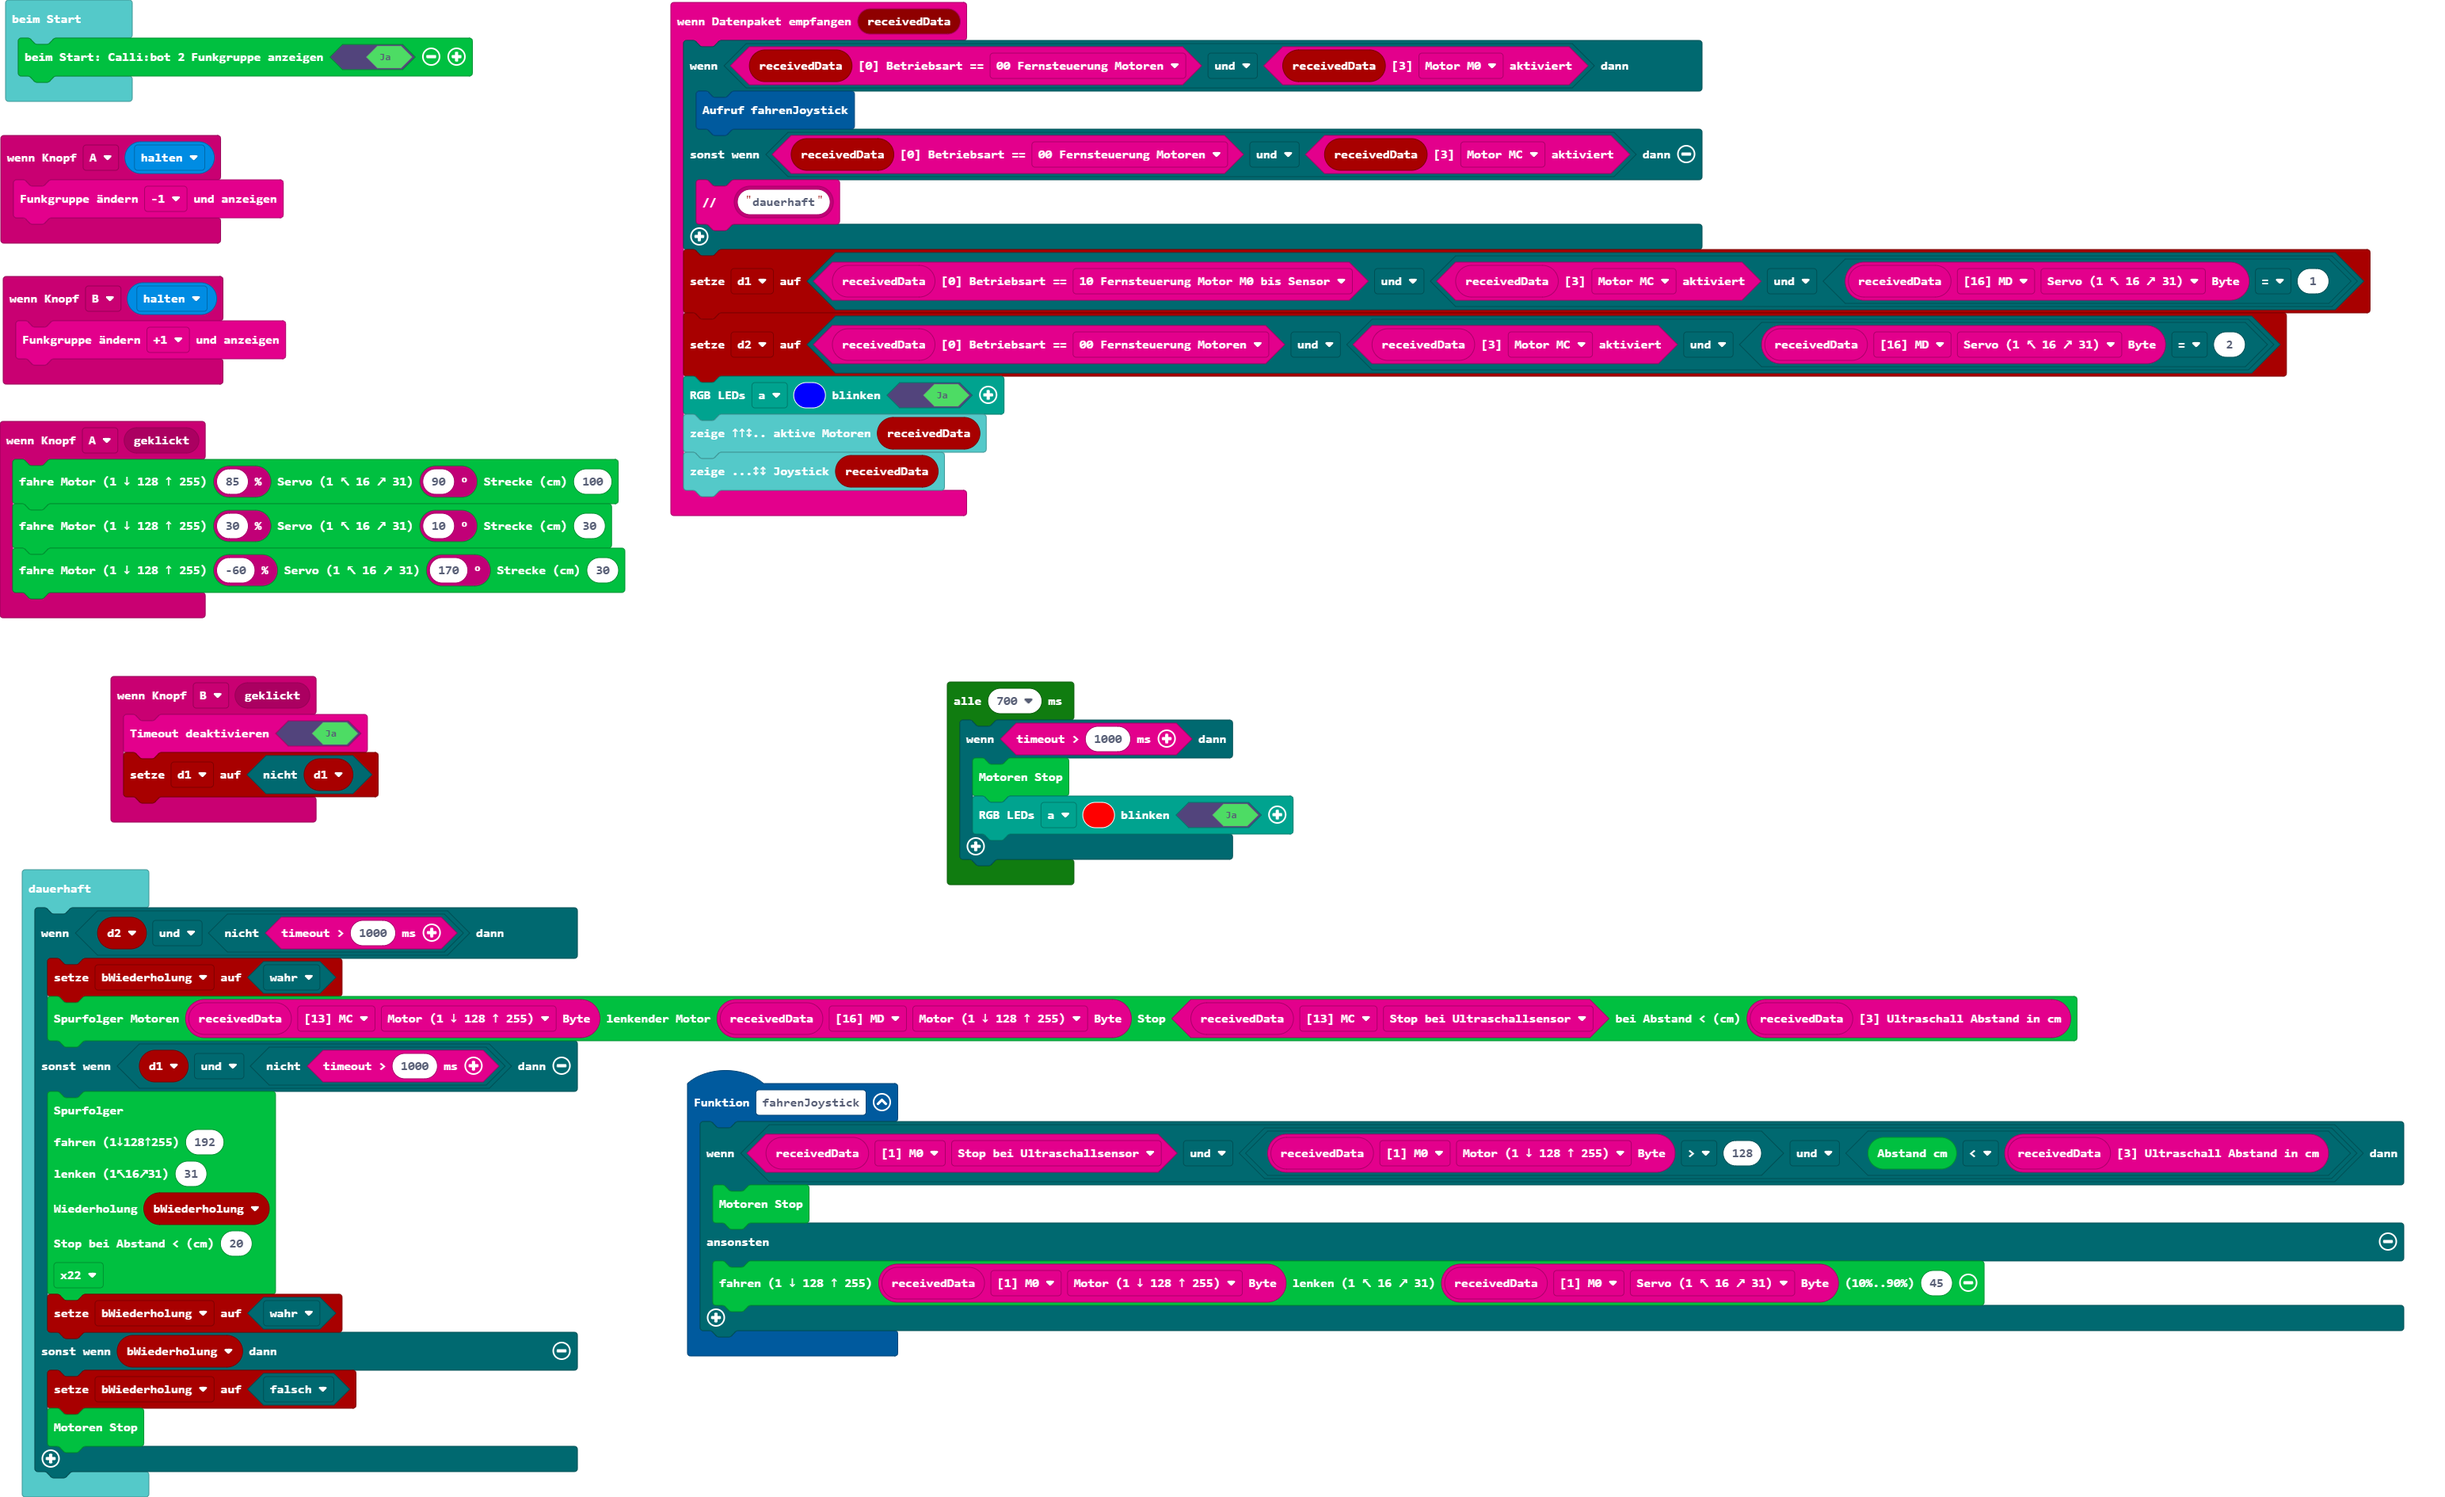
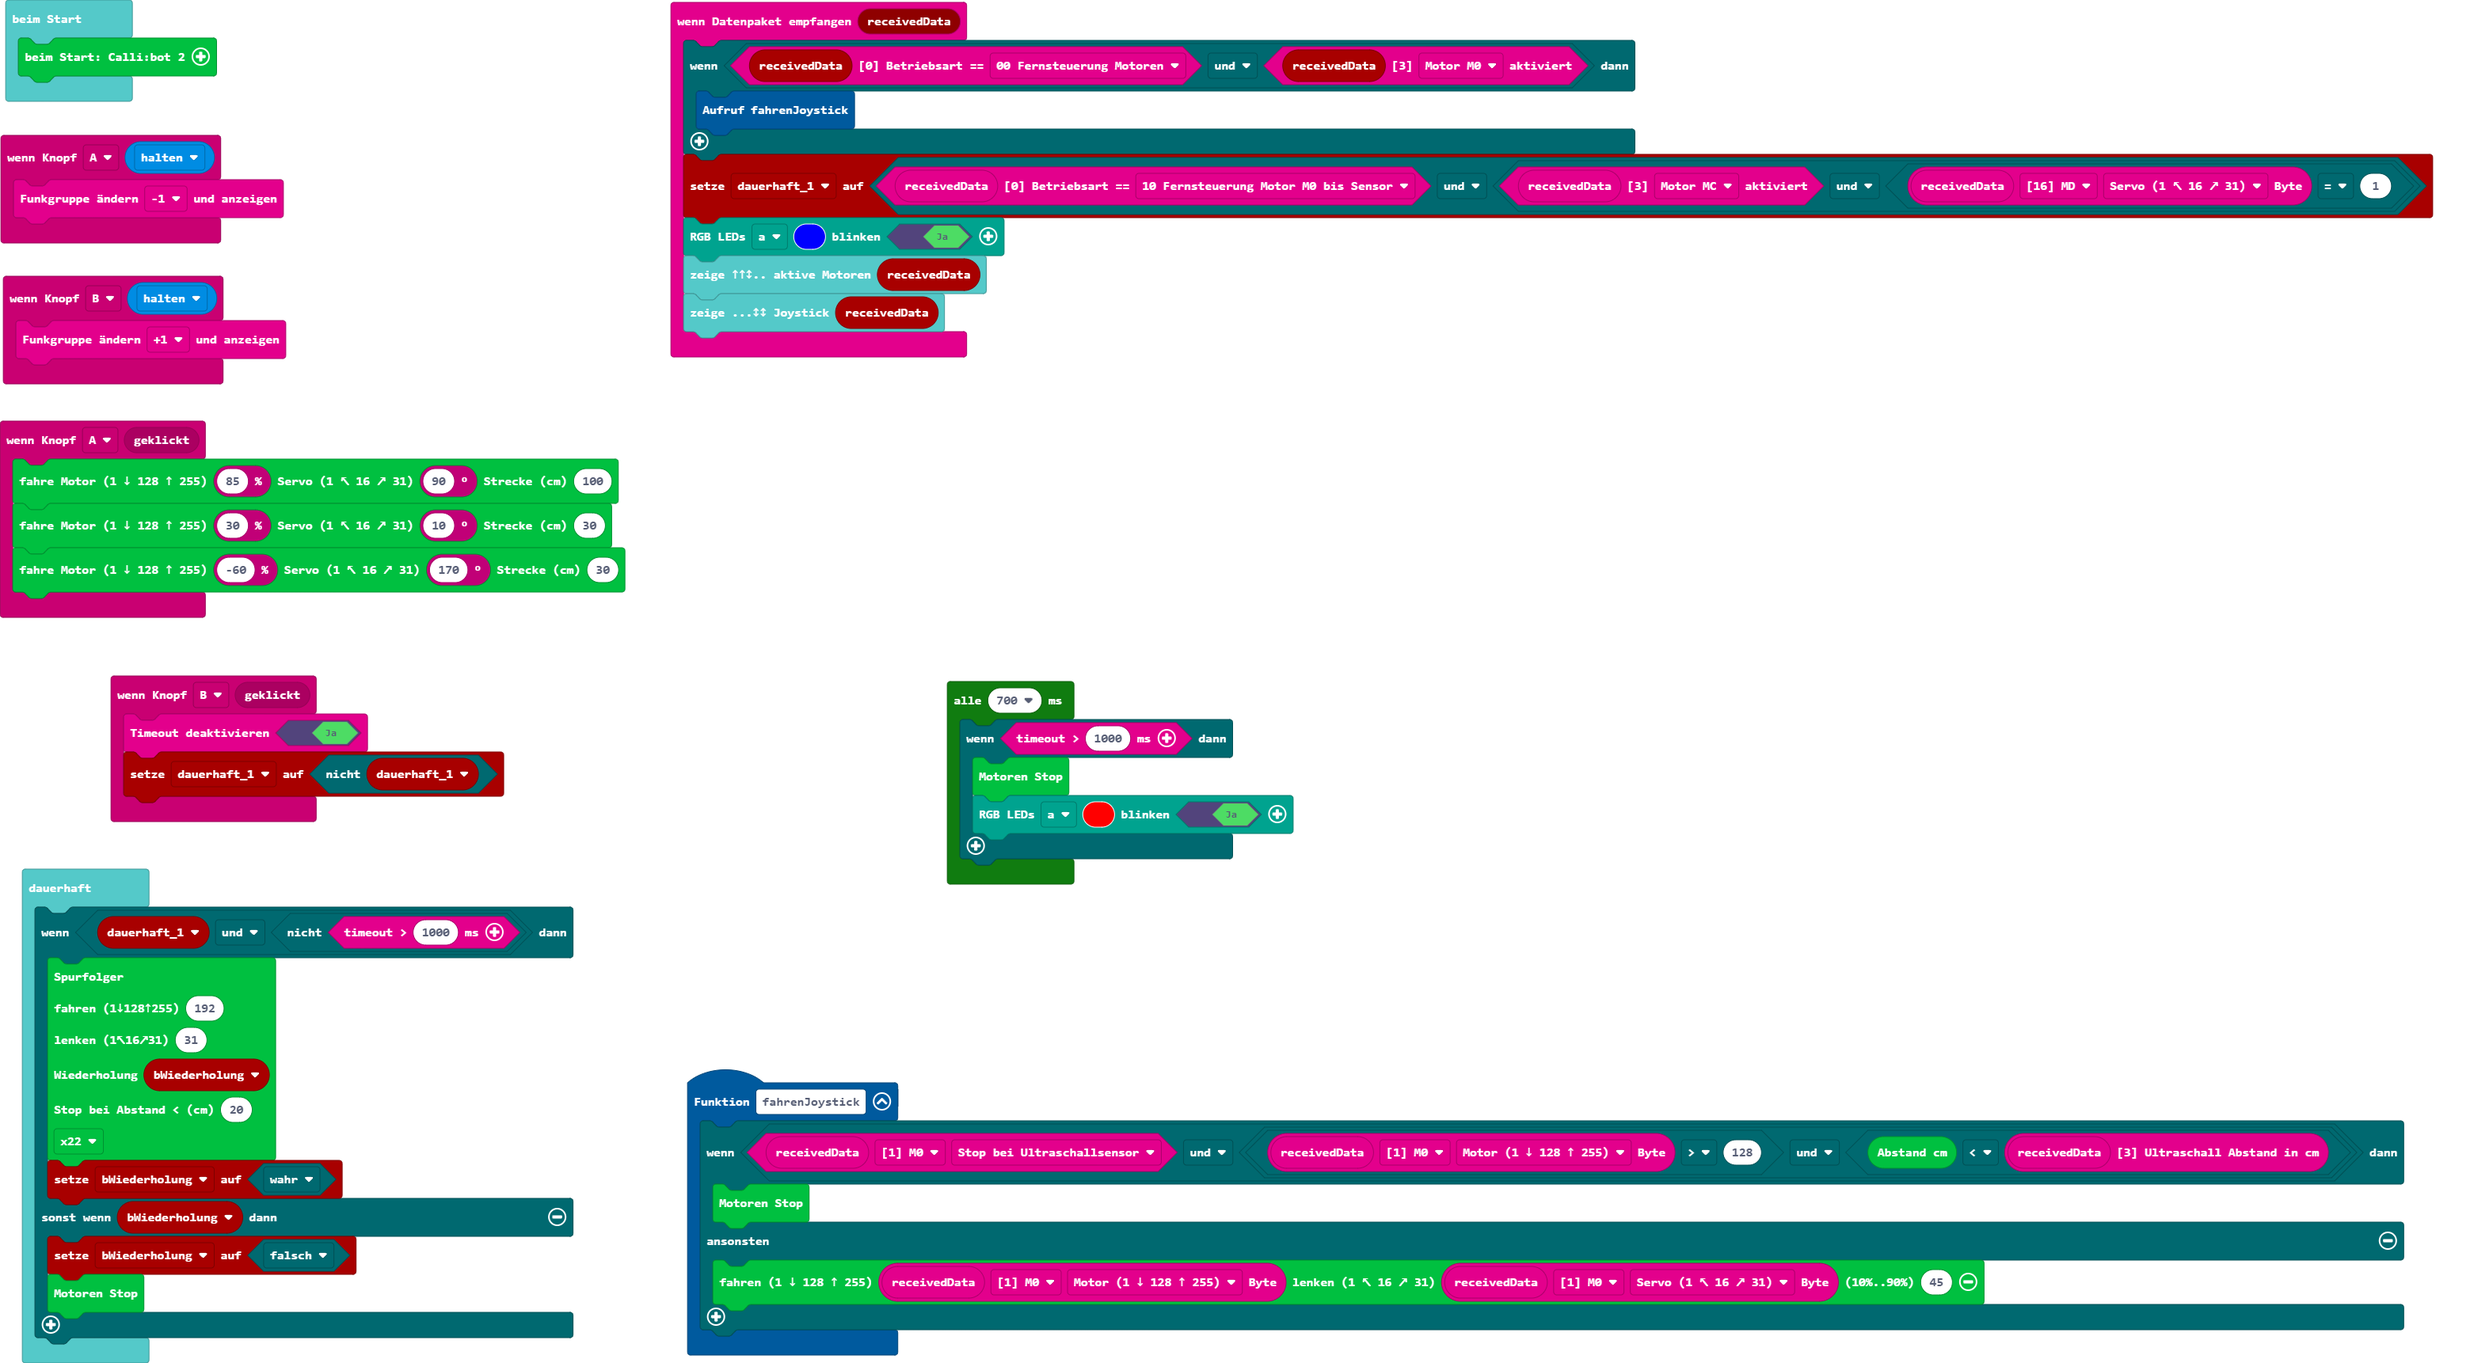
Aktualisiere main.blocks, main.ts

diff --git a/main.ts b/main.ts
@@ -8,7 +8,7 @@ input.onButtonEvent(Button.B, sender.buttonEventValue(ButtonEvent.Hold), functio
 })
 input.onButtonEvent(Button.B, input.buttonEventClick(), function () {
     btf.set_localProgram(true)
-    d1 = !(d1)
+    dauerhaft_1 = !(dauerhaft_1)
 })
 function fahrenJoystick () {
     if (btf.getSensor(btf.btf_receivedBuffer19(), btf.eBufferPointer.m0, btf.eSensor.b6) && (btf.getByte(btf.btf_receivedBuffer19(), btf.eBufferPointer.m0, btf.eBufferOffset.b0_Motor) > 128 && cb2.readUltraschallAbstand() < btf.getAbstand(btf.btf_receivedBuffer19()))) {
@@ -23,24 +23,17 @@ input.onButtonEvent(Button.A, sender.buttonEventValue(ButtonEvent.Hold), functio
 btf.onReceivedData(function (receivedData) {
     if (btf.isBetriebsart(receivedData, btf.e0Betriebsart.p0) && btf.getaktiviert(receivedData, btf.e3aktiviert.m0)) {
         fahrenJoystick()
-    } else if (btf.isBetriebsart(receivedData, btf.e0Betriebsart.p0) && btf.getaktiviert(receivedData, btf.e3aktiviert.mc)) {
-        btf.comment(btf.btf_text("dauerhaft"))
     }
-    d1 = btf.isBetriebsart(btf.btf_receivedBuffer19(), btf.e0Betriebsart.p1) && (btf.getaktiviert(btf.btf_receivedBuffer19(), btf.e3aktiviert.mc) && btf.getByte(btf.btf_receivedBuffer19(), btf.eBufferPointer.md, btf.eBufferOffset.b1_Servo) == 1)
-    d2 = btf.isBetriebsart(btf.btf_receivedBuffer19(), btf.e0Betriebsart.p0) && (btf.getaktiviert(btf.btf_receivedBuffer19(), btf.e3aktiviert.mc) && btf.getByte(btf.btf_receivedBuffer19(), btf.eBufferPointer.md, btf.eBufferOffset.b1_Servo) == 2)
+    dauerhaft_1 = btf.isBetriebsart(btf.btf_receivedBuffer19(), btf.e0Betriebsart.p1) && (btf.getaktiviert(btf.btf_receivedBuffer19(), btf.e3aktiviert.mc) && btf.getByte(btf.btf_receivedBuffer19(), btf.eBufferPointer.md, btf.eBufferOffset.b1_Servo) == 1)
     receiver.rgbLEDs(receiver.eRGBled.a, 0x0000ff, true)
     btf.zeige5x5Buffer(receivedData)
     btf.zeige5x5Joystick(receivedData)
 })
 let bWiederholung = false
-let d2 = false
-let d1 = false
-cb2.beimStart(true)
+let dauerhaft_1 = false
+cb2.beimStart()
 basic.forever(function () {
-    if (d2 && !(btf.timeout(1000))) {
-        bWiederholung = true
-        cb2.beispielSpurfolger(btf.getByte(btf.btf_receivedBuffer19(), btf.eBufferPointer.mc, btf.eBufferOffset.b0_Motor), btf.getByte(btf.btf_receivedBuffer19(), btf.eBufferPointer.md, btf.eBufferOffset.b0_Motor), btf.getSensor(btf.btf_receivedBuffer19(), btf.eBufferPointer.mc, btf.eSensor.b6), btf.getAbstand(btf.btf_receivedBuffer19()))
-    } else if (d1 && !(btf.timeout(1000))) {
+    if (dauerhaft_1 && !(btf.timeout(1000))) {
         cb2.beispielSpurfolger16(
         192,
         31,
